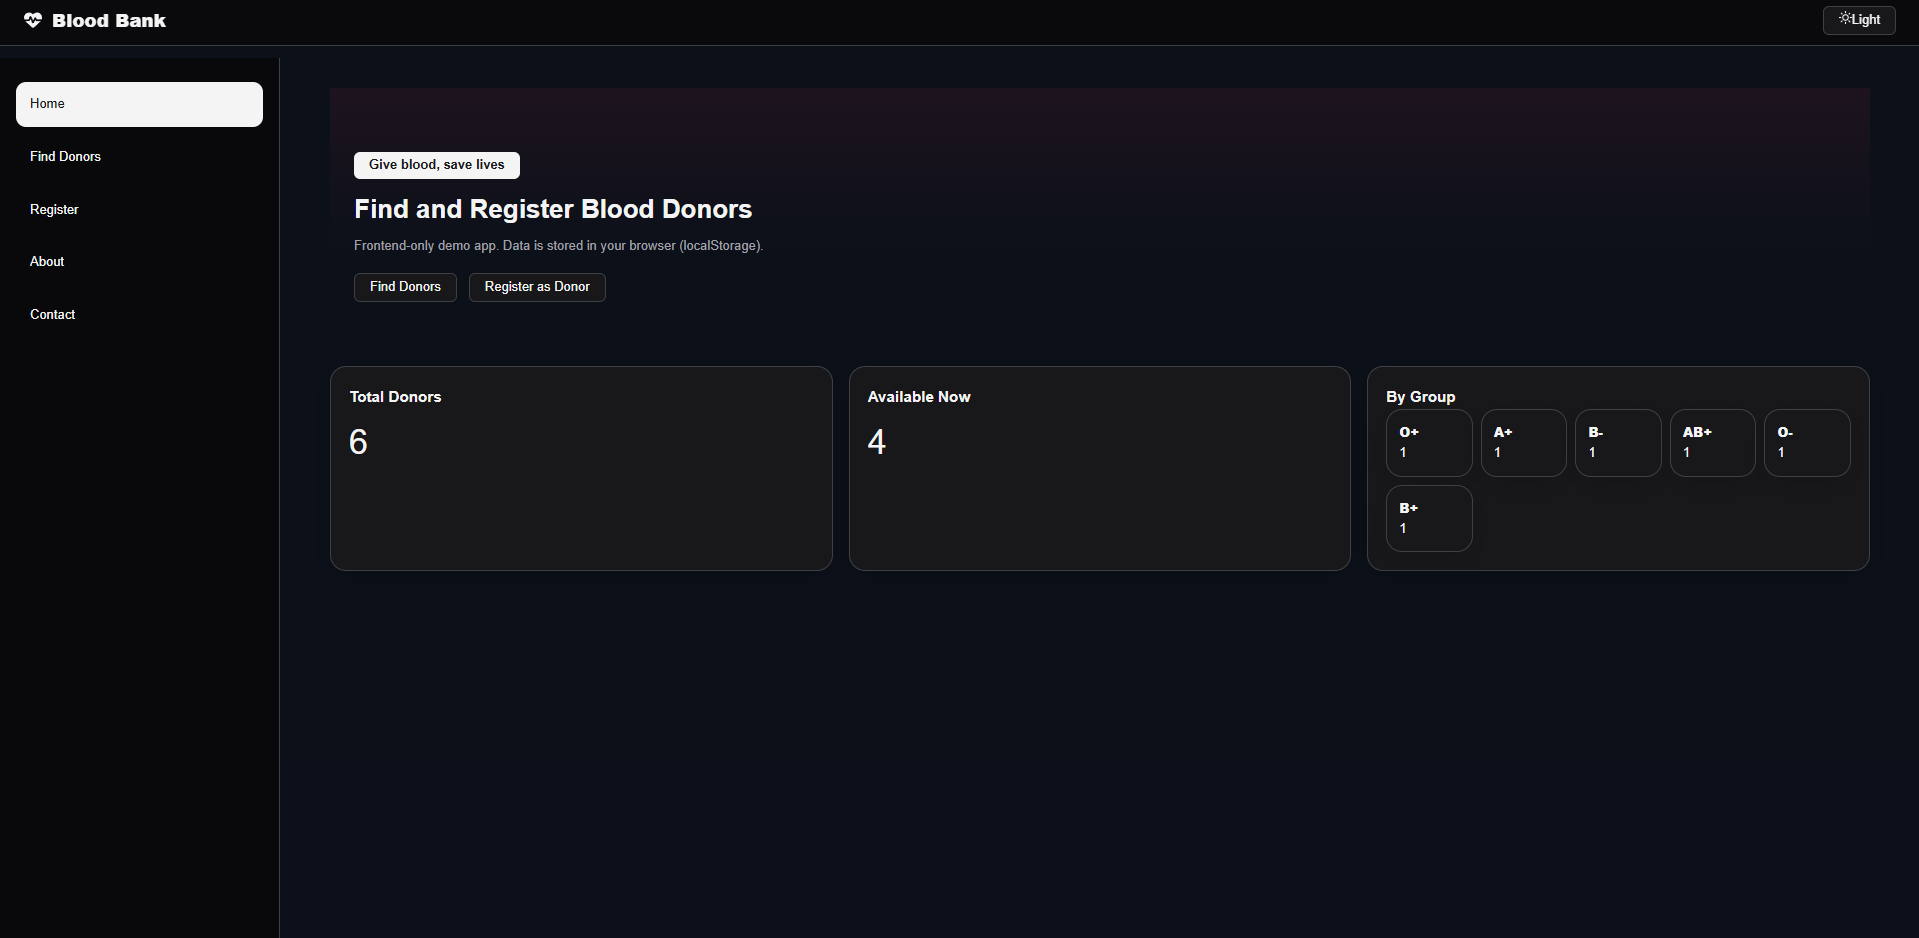
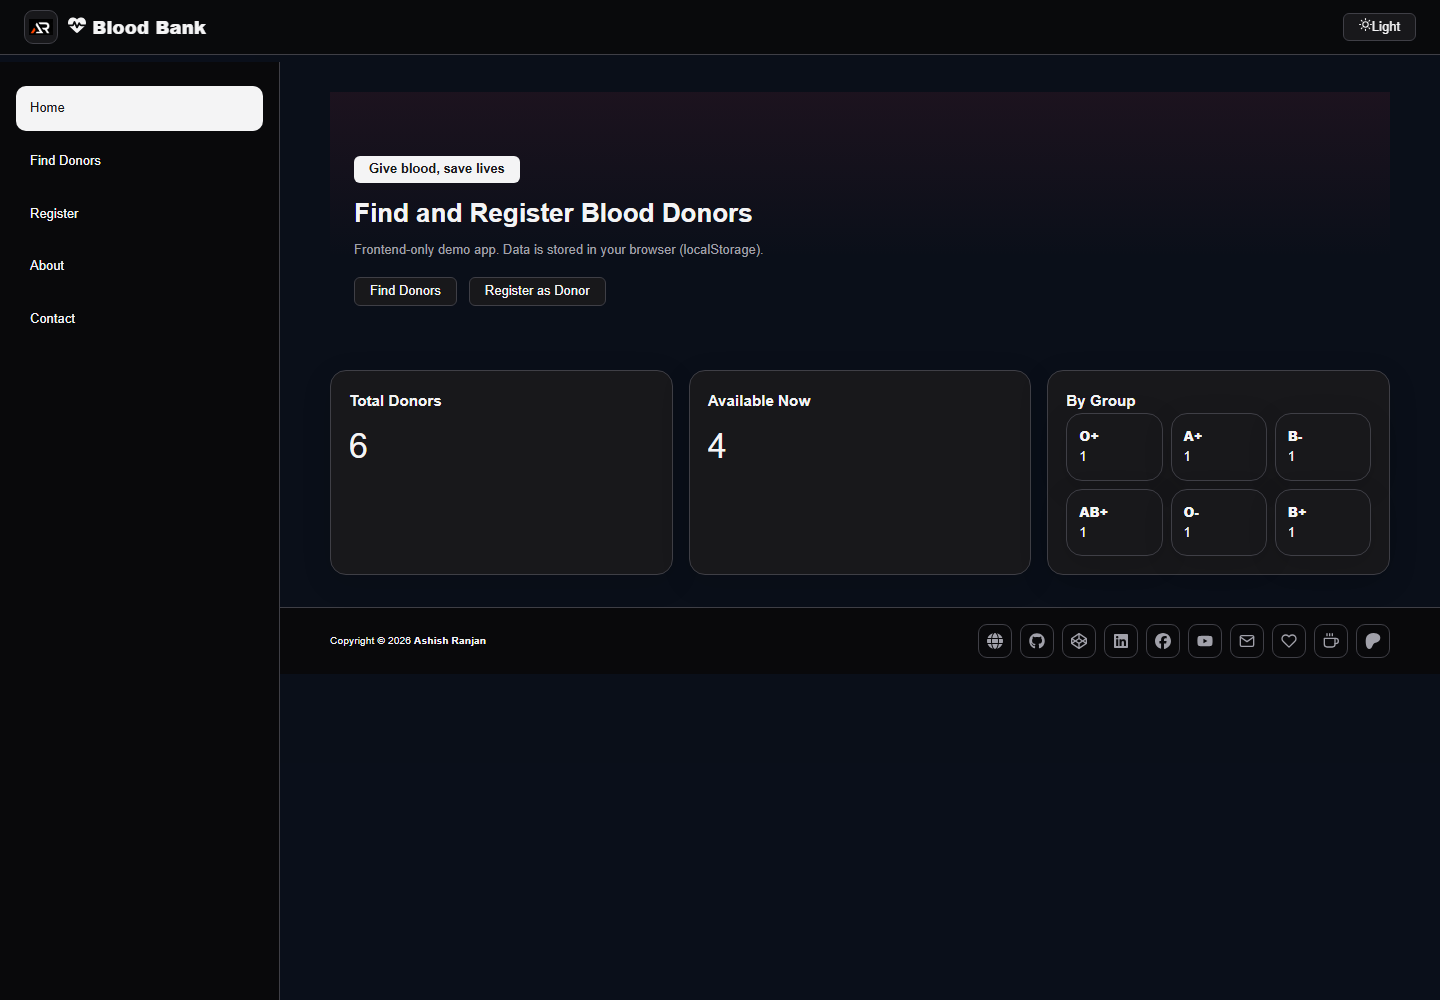
Polish blood bank interface and deployment assets

diff --git a/src/App.jsx b/src/App.jsx
@@ -1,13 +1,37 @@
-import React, { lazy, Suspense } from 'react'
+import React, { createElement, lazy, Suspense } from 'react'
 import { Routes, Route, Navigate, useLocation } from 'react-router-dom'
 import { ThemeProvider } from 'styled-components'
 import { GlobalStyles } from './styles/GlobalStyles.js'
 import { lightTheme, darkTheme } from './styles/theme.js'
 import { useLocalStorage } from './utils/useLocalStorage.js'
 import Navbar from './components/Navbar.jsx'
+import ScrollToTop from './components/ScrollToTop.jsx'
 import { ToastProvider } from './components/Toast.jsx'
 import { styled } from "styled-components";
 import { ConfirmProvider } from './components/ConfirmDialog.jsx'
+import {
+    FaCodepen,
+    FaFacebook,
+    FaGithub,
+    FaGlobe,
+    FaLinkedin,
+    FaPatreon,
+    FaYoutube,
+} from 'react-icons/fa6'
+import { FiCoffee, FiHeart, FiMail } from 'react-icons/fi'
+
+const footerLinks = [
+    { label: 'Portfolio', href: 'https://www.ashishranjan.net/', icon: FaGlobe },
+    { label: 'GitHub', href: 'https://github.com/a2rp', icon: FaGithub },
+    { label: 'CodePen', href: 'https://codepen.io/ash1198', icon: FaCodepen },
+    { label: 'LinkedIn', href: 'https://www.linkedin.com/in/aashishranjan', icon: FaLinkedin },
+    { label: 'Facebook', href: 'https://www.facebook.com/theash.ashish/', icon: FaFacebook },
+    { label: 'YouTube', href: 'https://www.youtube.com/@ashishranjan-ashz?sub_confirmation=1', icon: FaYoutube },
+    { label: 'Email', href: 'mailto:ash.ranjan09@gmail.com', icon: FiMail },
+    { label: 'Support', href: 'https://a2rp-donation-page.netlify.app/', icon: FiHeart },
+    { label: 'Buy Me A Coffee', href: 'https://buymeacoffee.com/a2rp', icon: FiCoffee },
+    { label: 'Patreon', href: 'https://www.patreon.com/a2rp', icon: FaPatreon },
+]
 
 const Home = lazy(() => import('./pages/Home.jsx'))
 const Donors = lazy(() => import('./pages/Donors.jsx'))
@@ -45,13 +69,34 @@ export default function App() {
                 <GlobalStyles />
                 <ConfirmProvider>
                     <Styled.Wrapper>
+                        <ScrollToTop />
                         <Navbar mode={mode} setMode={setMode} />
                         <Styled.Main>
                             <AppRoutes />
                         </Styled.Main>
                         <Styled.Footer>
-                            Copyright &copy; {new Date().getFullYear()} <a href="https://www.ashishranjan.net" target="_blank" rel="noopener noreferrer">Ashish Ranjan</a>
-                            <nav aria-label="Footer links"><a href="https://github.com/a2rp" target="_blank" rel="noopener noreferrer">GitHub</a><a href="https://codepen.io/ash1198" target="_blank" rel="noopener noreferrer">CodePen</a><a href="mailto:ash.ranjan09@gmail.com">Email</a><a href="https://a2rp-donation-page.netlify.app/" target="_blank" rel="noopener noreferrer">Support</a><a href="https://buymeacoffee.com/a2rp" target="_blank" rel="noopener noreferrer">Buy Me A Coffee</a><a href="https://patreon.com/a2rp" target="_blank" rel="noopener noreferrer">Patreon</a></nav>
+                            <Styled.FooterMain>
+                                <Styled.Copyright>
+                                    Copyright &copy; {new Date().getFullYear()} {' '}
+                                    <a href="https://www.ashishranjan.net/" target="_blank" rel="noopener noreferrer">
+                                        Ashish Ranjan
+                                    </a>
+                                </Styled.Copyright>
+                                <Styled.Links aria-label="Social and support links">
+                                    {footerLinks.map(({ label, href, icon }) => (
+                                        <Styled.FooterLink
+                                            key={label}
+                                            href={href}
+                                            target={href.startsWith('mailto:') ? undefined : '_blank'}
+                                            rel={href.startsWith('mailto:') ? undefined : 'noopener noreferrer'}
+                                            aria-label={label}
+                                            title={label}
+                                        >
+                                            {createElement(icon, { 'aria-hidden': true })}
+                                        </Styled.FooterLink>
+                                    ))}
+                                </Styled.Links>
+                            </Styled.FooterMain>
                         </Styled.Footer>
                     </Styled.Wrapper>
                 </ConfirmProvider>
@@ -76,10 +121,60 @@ const Styled = {
         }
     `,
     Footer: styled.footer`
-        width: calc(100% - 280px); margin-left: 280px; padding: 18px 50px; display: flex; flex-wrap: wrap; justify-content: center; gap: 8px 14px; color: ${({ theme }) => theme.muted}; font-size: .8rem; text-align: center;
-        a { color: ${({ theme }) => theme.fg}; font-weight: 600; }
-        nav { width: 100%; display: flex; flex-wrap: wrap; justify-content: center; gap: 8px 14px; }
-        @media (width<900px) { width: 100%; margin-left: 0; padding: 16px; }
+        width: calc(100% - 280px);
+        margin-left: 280px;
+        border-top: 1px solid ${({ theme }) => theme.border};
+        background: ${({ theme }) => theme.bg};
+        color: ${({ theme }) => theme.muted};
+        @media (width < 900px) {
+            width: 100%;
+            margin-left: 0;
+        }
+    `,
+    FooterMain: styled.div`
+        width: 100%;
+        max-width: 1440px;
+        margin: 0 auto;
+        padding: 16px 50px;
+        display: flex;
+        align-items: center;
+        justify-content: space-between;
+        gap: 12px;
+        @media (width < 900px) {
+            padding: 16px;
+            flex-direction: column;
+            align-items: flex-start;
+        }
+    `,
+    Copyright: styled.p`
+        margin: 0;
+        font-size: .8rem;
+        a {
+            color: ${({ theme }) => theme.fg};
+            font-weight: 700;
+        }
+    `,
+    Links: styled.nav`
+        display: flex;
+        flex-wrap: wrap;
+        justify-content: flex-end;
+        gap: 8px;
+    `,
+    FooterLink: styled.a`
+        width: 34px;
+        height: 34px;
+        display: grid;
+        place-items: center;
+        border: 1px solid ${({ theme }) => theme.border};
+        border-radius: 9px;
+        color: ${({ theme }) => theme.muted};
+        transition: border-color .2s ease, box-shadow .2s ease, text-shadow .2s ease;
+        svg { width: 16px; height: 16px; }
+        &:hover {
+            border-color: ${({ theme }) => theme.fg};
+            box-shadow: 0 0 14px ${({ theme }) => theme.border};
+            text-shadow: 0 0 8px ${({ theme }) => theme.fg};
+        }
     `,
     Loader: styled.div`
         min-height: 60vh;

diff --git a/src/components/ScrollToTop.jsx b/src/components/ScrollToTop.jsx
@@ -1,8 +1,71 @@
-import { useEffect } from "react";
+import { useEffect, useState } from "react";
 import { useLocation } from "react-router-dom";
+import styled from "styled-components";
+import { FiArrowUp } from "react-icons/fi";
 
 export default function ScrollToTop() {
     const { pathname } = useLocation();
-    useEffect(() => { window.scrollTo({ top: 0, behavior: "smooth" }); }, [pathname]);
-    return null;
+    const [visible, setVisible] = useState(false);
+
+    useEffect(() => {
+        window.scrollTo({ top: 0, behavior: "smooth" });
+    }, [pathname]);
+
+    useEffect(() => {
+        const onScroll = () => setVisible(window.scrollY > 320);
+        window.addEventListener("scroll", onScroll, { passive: true });
+        onScroll();
+        return () => window.removeEventListener("scroll", onScroll);
+    }, []);
+
+    const goToTop = () => {
+        const reducedMotion = window.matchMedia?.("(prefers-reduced-motion: reduce)").matches;
+        window.scrollTo({ top: 0, behavior: reducedMotion ? "auto" : "smooth" });
+    };
+
+    return (
+        <Button
+            type="button"
+            $visible={visible}
+            onClick={goToTop}
+            aria-label="Go to top"
+            title="Go to top"
+        >
+            <FiArrowUp aria-hidden="true" />
+        </Button>
+    );
 }
+
+const Button = styled.button`
+    position: fixed;
+    right: 22px;
+    bottom: 22px;
+    z-index: 1200;
+    width: 42px;
+    height: 42px;
+    display: grid;
+    place-items: center;
+    border: 1px solid ${({ theme }) => theme.border};
+    border-radius: 50%;
+    background: ${({ theme }) => theme.card};
+    color: ${({ theme }) => theme.fg};
+    opacity: ${({ $visible }) => ($visible ? 1 : 0)};
+    transform: translateY(${({ $visible }) => ($visible ? "0" : "10px")});
+    pointer-events: ${({ $visible }) => ($visible ? "auto" : "none")};
+    transition: opacity .2s ease, transform .2s ease, border-color .2s ease,
+        box-shadow .2s ease, text-shadow .2s ease;
+    cursor: pointer;
+    &:hover {
+        border-color: ${({ theme }) => theme.fg};
+        box-shadow: 0 0 16px ${({ theme }) => theme.border};
+        text-shadow: 0 0 8px ${({ theme }) => theme.fg};
+    }
+    &:focus-visible {
+        outline: 2px solid ${({ theme }) => theme.fg};
+        outline-offset: 3px;
+    }
+    @media (max-width: 560px) {
+        right: 16px;
+        bottom: 16px;
+    }
+`;

diff --git a/src/components/Navbar.jsx b/src/components/Navbar.jsx
@@ -18,6 +18,27 @@ const Bar = styled.div`
 const Brand = styled.div`
     display: flex; align-items: center; gap: 10px;
     font-weight: 800; letter-spacing: .2px; font-size: 18px;
+    color: ${({ theme }) => theme.fg};
+`
+const BrandLink = styled(NavLink)`
+    display: inline-flex;
+    align-items: center;
+    color: inherit;
+    text-decoration: none;
+`
+const Logo = styled.img`
+    width: 34px;
+    height: 34px;
+    padding: 4px;
+    object-fit: contain;
+    border: 1px solid ${({ theme }) => theme.border};
+    border-radius: 9px;
+    background: ${({ theme }) => theme.card};
+    @media (max-width: 560px) {
+        width: 30px;
+        height: 30px;
+        padding: 3px;
+    }
 `
 const Links = styled.div`
     display: flex; gap: 12px; align-items: center;
@@ -65,7 +86,12 @@ export default function Navbar({ mode, setMode }) {
         <>
         <Nav>
             <Bar>
-                <NavLink to="/"><Brand><FaHeartPulse /> Blood Bank</Brand></NavLink>
+                <BrandLink to="/" aria-label="Blood Bank home">
+                    <Brand>
+                        <Logo src={`${import.meta.env.BASE_URL}logo.png`} alt="Blood Bank logo" />
+                        <span><FaHeartPulse /> Blood Bank</span>
+                    </Brand>
+                </BrandLink>
                 <Links><Toggle onClick={() => setMode(mode === 'dark' ? 'light' : 'dark')} aria-label="Toggle theme">
                     {mode === 'dark' ? <FiSun /> : <FiMoon />}<span className="mode-label">{mode === 'dark' ? 'Light' : 'Dark'}</span>
                 </Toggle><MenuButton onClick={() => setOpen(v => !v)} aria-label={open ? 'Close menu' : 'Open menu'}>{open ? <FiX /> : <FiMenu />}</MenuButton></Links>

diff --git a/index.html b/index.html
@@ -10,10 +10,14 @@
     <meta property="og:title" content="Blood Bank" />
     <meta property="og:description" content="A practical blood donor directory and registration app." />
     <meta property="og:type" content="website" />
-    <title>Blood Bank | Ashish Ranjan</title>
-    <meta property="og:image" content="%BASE_URL%preview.png" />
+    <meta property="og:url" content="https://a2rp.github.io/blood-bank/" />
+    <meta property="og:image" content="https://a2rp.github.io/blood-bank/preview.png" />
     <meta name="twitter:card" content="summary_large_image" />
-    <meta name="twitter:image" content="%BASE_URL%preview.png" />
+    <meta name="twitter:title" content="Blood Bank | Ashish Ranjan" />
+    <meta name="twitter:description" content="A practical blood donor directory and registration app." />
+    <meta name="twitter:image" content="https://a2rp.github.io/blood-bank/preview.png" />
+    <link rel="canonical" href="https://a2rp.github.io/blood-bank/" />
+    <title>Blood Bank | Ashish Ranjan</title>
 </head>
 
 <body>

diff --git a/README.md b/README.md
@@ -6,12 +6,15 @@ A React and Vite blood donor directory for finding donors, registering donor det
 
 ## Features
 
-- Fixed header with desktop sidebar and mobile menu
+- Responsive fixed header with desktop sidebar and mobile menu
 - Donor search and filters by blood group, city, and availability
-- Donor registration with validation
-- Donor details, editing, and confirmation dialogs
+- Validated donor registration and editing
 - Contact message management with local persistence
-- Light and dark themes
+- Light and dark themes with a floating Go to top button
+
+## Tech stack
+
+React, Vite, React Router, styled-components, React Hook Form, Zod, React Icons, and localStorage.
 
 ## Run locally
 
@@ -22,10 +25,14 @@ npm run dev
 
 Build with `npm run build` and deploy to GitHub Pages with `npm run deploy`.
 
+## Deployment
+
+- Live site: https://a2rp.github.io/blood-bank/
+- Repository: https://github.com/a2rp/blood-bank
+- License: MIT
+
 ## Links
 
-- Live: https://a2rp.github.io/blood-bank/
-- Repository: https://github.com/a2rp/blood-bank
 - Portfolio: https://www.ashishranjan.net/
 - GitHub: https://github.com/a2rp
 - CodePen: https://codepen.io/ash1198
